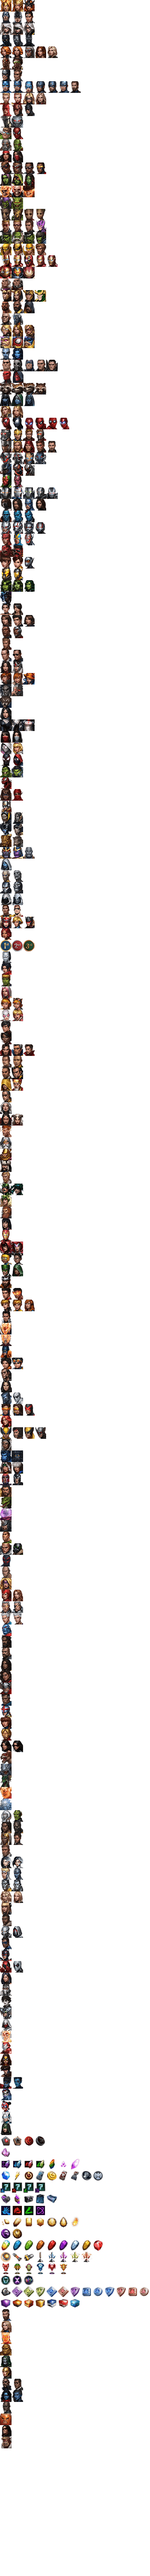
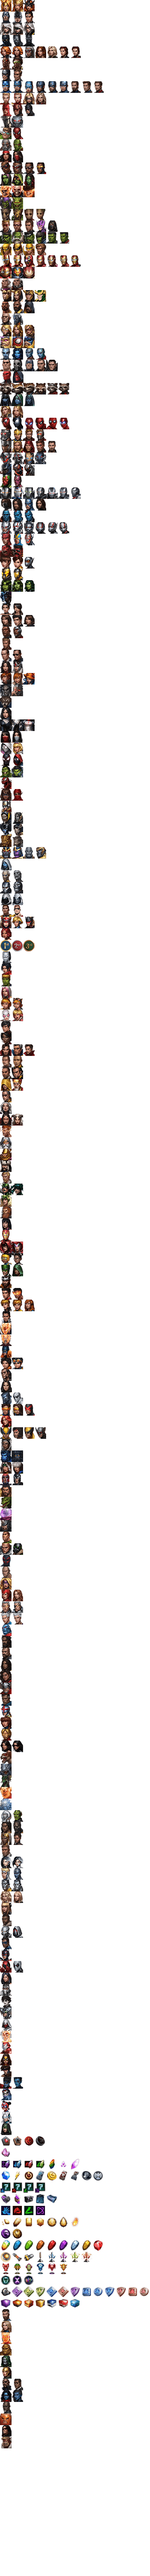
v500 flairs

diff --git a/j_flair.js b/j_flair.js
@@ -73,6 +73,8 @@ flair.names = {
 "Antman01 uniform ant1" : "Ant-Man [Marvel's Ant-Man] #Super Hero# #Hero# #Speed# #Male# #Human# #MCU# #Agility# #Potential# #Tier3#",
 "Antman02 uniform ant2" : "Ant-Man [Captain America: Civil War] #Super Hero# #Hero# #Speed# #Male# #Human# #MCU# #Agility# #Potential# #Tier3#",
 "Antman03 uniform ant3" : "Ant-Man [Marvel's Ant-Man and the Wasp] #Super Hero# #Hero# #Speed# #Male# #Human# #MCU# #Agility# #Potential# #Tier3#",
+"Antman04 uniform ant4" : "Ant-Man [Marvel's Avengers: Endgame] #Super Hero# #Hero# #Speed# #Male# #Human# #MCU# #Agility# #Potential# #Tier3# #New#",
+"Antman05 uniform ant5" : "Ant-Man [Team Suit] #Super Hero# #Hero# #Speed# #Male# #Human# #MCU# #Agility# #Potential# #Tier3# #New#",
 "Apocalypse00 character apocalypse" : "Apocalypse [Age of Apocalypse] #Super Villain# #Villain# #Combat# #Male# #Mutant# #Durability# #Fast Movement# #Pure Evil#",
 "Arachknight00 character arachknight" : "Arachknight [Infinity Warps] #Super Hero# #Hero# #Speed# #Male# #Human# #Leadership# #Weapons Master# #Spider-Sense# #Potential#",
 "BaronMordo00 character mordo" : "Baron Mordo [Classic] #Super Villain# #Villain# #Blast# #Male# #Human# #Pure Evil# #Magic#",
@@ -95,6 +97,8 @@ flair.names = {
 "BlackWidow02 uniform widow2" : "Black Widow [Secret Wars: 2099] #Super Hero# #Hero# #Speed# #Female# #Human# #Avengers# #Agent# #Agility# #Potential#",
 "BlackWidow03 uniform widow3" : "Black Widow [Captain America: Civil War] #Super Hero# #Hero# #Speed# #Female# #Human# #MCU# #Avengers# #Agent# #Agility# #Potential#",
 "BlackWidow04 uniform widow4" : "Black Widow [Marvel's Avengers: Infinity War] #Super Hero# #Hero# #Speed# #Female# #Human# #MCU# #Avengers# #Agent# #Agility# #Potential#",
+"BlackWidow05 uniform widow5" : "Black Widow [Marvel's Avengers: Endgame] #Super Hero# #Hero# #Speed# #Female# #Human# #MCU# #Avengers# #Agent# #Agility# #Potential# #New#",
+"BlackWidow06 uniform widow6" : "Black Widow [Team Suit] #Super Hero# #Hero# #Speed# #Female# #Human# #MCU# #Avengers# #Agent# #Agility# #Potential# #New#",
 "Blade00 character blade" : "Blade [Modern] #Super Hero# #Hero# #Combat# #Male# #Human# #Weapons Master# #Healing#",
 "Blade01 uniform blade1" : "Blade [70's Classic] #Super Hero# #Hero# #Combat# #Male# #Human# #Weapons Master# #Healing#",
 "BlueMarvel00 character bluemarvel" : "Blue Marvel [Ultimates] #Super Hero# #Hero# #Universal# #Male# #Human# #Energy Projection# #Leadership#",
@@ -109,6 +113,8 @@ flair.names = {
 "CaptainAmerica04 uniform cap4" : "Captain America [Captain America: Civil War] #Super Hero# #Hero# #Combat# #Male# #Human# #MCU# #Avengers# #Command# #Leadership# #Potential# #Tier3#",
 "CaptainAmerica05 uniform cap5" : "Captain America [Marvel NOW!] #Super Hero# #Hero# #Combat# #Male# #Human# #Command# #Leadership# #Potential# #Tier3#",
 "CaptainAmerica06 uniform cap6" : "Captain America [Marvel's Avengers: Infinity War] #Super Hero# #Hero# #Combat# #Male# #Human# #MCU# #Avengers# #Command# #Leadership# #Potential# #Tier3#",
+"CaptainAmerica07 uniform cap7" : "Captain America [Marvel's Avengers: Endgame] #Super Hero# #Hero# #Combat# #Male# #Human# #MCU# #Avengers# #Command# #Leadership# #Potential# #Tier3# #New#",
+"CaptainAmerica08 uniform cap8" : "Captain America [Team Suit] #Super Hero# #Hero# #Combat# #Male# #Human# #MCU# #Avengers# #Command# #Leadership# #Potential# #Tier3# #New#",
 "CaptainAmericaSharonRogers00 character sharonrogers" : "Captain America (Sharon Rogers) [Captain America 75th Anniversary] #Super Hero# #Hero# #Blast# #Female# #Human# #Original# #Energy Projection# #Leadership# #Potential# #Tier3#",
 "CaptainAmericaSharonRogers01 uniform sharonrogers1" : "Captain America (Sharon Rogers) [Starlight Armor] #Super Hero# #Hero# #Blast# #Female# #Human# #Original# #Energy Projection# #Leadership# #Potential# #Tier3#",
 "CaptainAmericaSharonRogers02 uniform sharonrogers2" : "Captain America (Sharon Rogers) [Dark Star Armor] #Super Hero# #Hero# #Blast# #Female# #Human# #Original# #Energy Projection# #Leadership# #Potential# #Tier3#",
@@ -138,7 +144,7 @@ flair.names = {
 "Daredevil01 uniform devil1" : "Daredevil [Devil of Hell's Kitchen] #Super Hero# #Hero# #Speed# #Male# #Human# #MCU# #Defenders# #Leadership# #Heightened Senses# #Agility#",
 "Daredevil02 uniform devil2" : "Daredevil [All-New, All-Different] #Super Hero# #Hero# #Speed# #Male# #Human# #Defenders# #Leadership# #Heightened Senses# #Agility#",
 "Deadpool00 character deadpool" : "Deadpool [Modern] #Super Hero# #Hero# #Speed# #Male# #Mutant# #Healing# #Weapons Master# #Potential# #Tier3#",
-"Deadpool01 uniform deadpool1" : "Deadpool [X-Force] #Super Hero# #Hero# #Speed# #Male# #Mutant# #X-Force# #Healing# #Weapons Master# #Potential# #Tier3# #New#",
+"Deadpool01 uniform deadpool1" : "Deadpool [X-Force] #Super Hero# #Hero# #Speed# #Male# #Mutant# #X-Force# #Healing# #Weapons Master# #Potential# #Tier3#",
 "Deathlok00 character deathlok" : "Deathlok [Marvel's Agents of S.H.I.E.L.D.] #Super Hero# #Hero# #Combat# #Male# #Human# #MCU# #Shield# #Agent# #Machine#",
 "Deathlok01 uniform deathlok1" : "Deathlok [Modern] #Super Hero# #Hero# #Blast# #Male# #Human# #Shield# #Agent# #Machine#",
 "Destroyer00 character destroyer" : "Destroyer [Classic] #Neutral# #Universal# #Genderless# #Creature# #Asgard# #Flame#",
@@ -199,6 +205,7 @@ flair.names = {
 "Hawkeye01 uniform hawkeye1" : "Hawkeye [Avengers: Age of Ultron] #Super Hero# #Hero# #Speed# #Male# #Human# #MCU# #Avengers# #Agent# #Weapons Master#",
 "Hawkeye02 uniform hawkeye2" : "Hawkeye [Captain America: Civil War] #Super Hero# #Hero# #Speed# #Male# #Human# #MCU# #Avengers# #Agent# #Weapons Master#",
 "Hawkeye03 uniform hawkeye3" : "Hawkeye [Classic] #Super Hero# #Hero# #Speed# #Male# #Human# #Avengers# #Agent# #Weapons Master#",
+"Hawkeye04 uniform hawkeye4" : "Ronin [Marvel's Avengers: Endgame] #Super Hero# #Hero# #Speed# #Male# #Human# #MCU# #Avengers# #Agent# #Weapons Master# #Potential# #New#",
 "HawkeyeKateBishop00 character kate" : "Hawkeye (Kate Bishop) [Marvel NOW!] #Super Hero# #Hero# #Speed# #Female# #Human# #Agent# #Agility#",
 "Heimdall00 character heimdall" : "Heimdall [Marvel's Thor: Ragnarok] #Super Hero# #Hero# #Universal# #Male# #Alien# #MCU# #Asgard# #Strong#",
 "Hela00 character hela" : "Hela [Modern] #Super Villain# #Villain# #Universal# #Female# #Alien# #Asgard# #Pure Evil# #Command#",
@@ -206,10 +213,12 @@ flair.names = {
 "Hellcat00 character hellcat" : "Hellcat [All-New, All-Different] #Super Hero# #Hero# #Speed# #Female# #Human# #Defenders# #Agility#",
 "Hellstorm00 character daimon" : "Hellstorm [Modern] #Super Hero# #Hero# #Universal# #Male# #Human# #Flame# #Magic#",
 "Hogun00 character hogun" : "Hogun [Modern] #Super Hero# #Hero# #Combat# #Male# #Alien# #Asgard# #Strong#",
-"Hulk00 character hulk" : "Hulk [The Avengers] #Super Hero# #Hero# #Combat# #Male# #Human# #Avengers# #Durability# #Strong#",
-"Hulk01 uniform hulk1" : "Hulk [Secret Wars: Future Imperfect] #Super Hero# #Hero# #Combat# #Male# #Human# #Durability# #Strong#",
-"Hulk02 uniform hulk2" : "Hulk [World War Hulk] #Super Hero# #Hero# #Combat# #Male# #Human# #Durability# #Strong#",
-"Hulk03 uniform hulk3" : "Hulk [Marvel's Thor: Ragnarok] #Super Hero# #Hero# #Combat# #Male# #Human# #MCU# #Avengers# #Durability# #Strong#",
+"Hulk00 character hulk" : "Hulk [The Avengers] #Super Hero# #Hero# #Combat# #Male# #Human# #Avengers# #Durability# #Strong# #Potential#",
+"Hulk01 uniform hulk1" : "Hulk [Secret Wars: Future Imperfect] #Super Hero# #Hero# #Combat# #Male# #Human# #Durability# #Strong# #Potential#",
+"Hulk02 uniform hulk2" : "Hulk [World War Hulk] #Super Hero# #Hero# #Combat# #Male# #Human# #Durability# #Strong# #Potential#",
+"Hulk03 uniform hulk3" : "Hulk [Marvel's Thor: Ragnarok] #Super Hero# #Hero# #Combat# #Male# #Human# #MCU# #Avengers# #Durability# #Strong# #Potential#",
+"Hulk04 uniform hulk4" : "Hulk [Marvel's Avengers: Endgame] #Super Hero# #Hero# #Combat# #Male# #Human# #MCU# #Avengers# #Durability# #Strong# #Potential# #New#",
+"Hulk05 uniform hulk5" : "Hulk [Team Suit] #Super Hero# #Hero# #Combat# #Male# #Human# #MCU# #Avengers# #Durability# #Strong# #Potential# #New#",
 "HulkAmadeusCho00 character cho" : "Hulk (Amadeus Cho) [Totally Awesome Hulk] #Super Hero# #Hero# #Combat# #Male# #Human# #Durability# #Strong#",
 "HulkAmadeusCho01 uniform cho1" : "Hulk (Amadeus Cho) [Monsters Unleashed! (MFF Variant)] #Super Hero# #Hero# #Combat# #Male# #Human# #Durability# #Strong#",
 "Hulkbuster00 character hb" : "Hulkbuster (Iron Mark Mark 44) [Avengers: Age of Ultron] #Super Hero# #Hero# #Combat# #Male# #Creature# #MCU# #Avengers# #Machine# #Strong#",
@@ -233,10 +242,12 @@ flair.names = {
 "IronMan02 uniform im2" : "Iron Man [Secret Wars: 2099] #Super Hero# #Hero# #Blast# #Male# #Human# #Energy Projection# #Machine# #Potential# #Tier3#",
 "IronMan03 uniform im3" : "Iron Man [Captain America: Civil War] #Super Hero# #Hero# #Blast# #Male# #Human# #MCU# #Avengers# #Energy Projection# #Machine# #Potential# #Tier3#",
 "IronMan04 uniform im4" : "Iron Man [Marvel's Avengers: Infinity War] #Super Hero# #Hero# #Blast# #Male# #Human# #MCU# #Avengers# #Energy Projection# #Machine# #Potential# #Tier3#",
+"IronMan05 uniform im5" : "Iron Man [Marvel's Avengers: Endgame] #Super Hero# #Hero# #Blast# #Male# #Human# #MCU# #Avengers# #Energy Projection# #Machine# #Potential# #Tier3# #New#",
+"IronMan06 uniform im6" : "Iron Man [Team Suit] #Super Hero# #Hero# #Blast# #Male# #Human# #MCU# #Avengers# #Energy Projection# #Machine# #Potential# #Tier3# #New#",
 "JeanGrey00 character jean" : "Jean Grey [Phoenix] #Super Hero# #Hero# #Blast# #Female# #Mutant# #X-Men# #Phoenix Force# #Mind# #Mind Resist#",
 "JessicaJones00 character jessica" : "Jessica Jones [Modern] #Super Hero# #Hero# #Combat# #Female# #Human# #MCU# #Defenders# #Durability# #Strong#",
 "Jocasta00 character jocasta" : "Jocasta [Jocasta] #Super Hero# #Hero# #Female# #Creature# #NPC#",
-"Juggernaut00 character juggernaut" : "Juggernaut [Brotherhood of Mutants] #Super Villain# #Villain# #Combat# #Male# #Mutant# #Brotherhood# #Strong# #Durability# #Pure Evil# #Potential# #New#",
+"Juggernaut00 character juggernaut" : "Juggernaut [Brotherhood of Mutants] #Super Villain# #Villain# #Combat# #Male# #Mutant# #Brotherhood# #Strong# #Durability# #Pure Evil# #Potential#",
 "Kaecilius00 character kaecilius" : "Kaecilius [Marvel's Doctor Strange] #Super Villain# #Villain# #Blast# #Male# #Human# #MCU# #Agility# #Magic#",
 "Karnak00 character karnak" : "Karnak [War of Kings] #Super Hero# #Hero#  #Speed# #Male# #Inhuman# #Heightened Senses#",
 "Karnak01 uniform karnak1" : "Karnak [All-New, All-Different] #Super Hero# #Hero#  #Speed# #Male# #Inhuman# #Heightened Senses#",
@@ -290,12 +301,14 @@ flair.names = {
 "MsMarvelKamalaKhan00 character kamala" : "Ms. Marvel (Kamala Khan) [All-New, All-Different] #Super Hero# #Hero# #Combat# #Female# #Inhuman# #Healing# #Strong#",
 "MsMarvelKamalaKhan01 uniform kamala1" : "Ms. Marvel (Kamala Khan) [Karachi Costume] #Super Hero# #Hero# #Speed# #Female# #Inhuman# #Healing# #Strong#",
 "Mysterio00 character mysterio" : "Mysterio [Classic] #Super Villain# #Villain# #Blast# #Male# #Human# #Sinister Six# #Mind#",
-"Nebula00 character nebula" : "Nebula [Guardians of the Galaxy] #Super Villain# #Villain# #Combat# #Female# #Alien# #MCU# #Guardians# #Weapons Master# #Shock#",
-"Nebula01 uniform nebula1" : "Nebula [Classic] #Super Villain# #Villain# #Combat# #Female# #Alien# #Weapons Master# #Shock#",
+"Nebula00 character nebula" : "Nebula [Guardians of the Galaxy] #Super Villain# #Villain# #Combat# #Female# #Alien# #MCU# #Guardians# #Weapons Master# #Shock# #Potential#",
+"Nebula01 uniform nebula1" : "Nebula [Classic] #Super Villain# #Villain# #Combat# #Female# #Alien# #Weapons Master# #Shock# #Potential#",
+"Nebula02 uniform nebula2" : "Nebula [Marvel's Avengers: Endgame] #Super Hero# #Hero# #Combat# #Female# #Alien# #Avengers# #-# #Guardians# #Weapons Master# #Shock# #Potential# #New#",
+"Nebula03 uniform nebula3" : "Nebula [Team Suit] #Super Hero# #Hero# #Combat# #Female# #Alien# #Avengers# #-# #Guardians# #Weapons Master# #Shock# #Potential# #New#",
 "NickFury00 character fury" : "Nick Fury [Modern] #Super Hero# #Hero# #Speed# #Male# #Human# #Shield# #Weapons Master# #Leadership# #Agent# #Support#",
 "NickFury01 uniform fury1" : "Nick Fury [Captain America] #Super Hero# #Hero# #Speed# #Male# #Human# #MCU# #Shield# #Weapons Master# #Leadership# #Agent# #Support# #Potential#",
 "Nightcrawler00 character nightcrawler" : "Nightcrawler [Modern] #Super Hero# #Hero# #Speed# #Male# #Mutant# #X-Men# #Leadership# #Agility# #Potential#",
-"Nightcrawler01 uniform nightcrawler1" : "Nightcrawler [X-Force] #Super Hero# #Hero# #Speed# #Male# #Mutant# #X-Force# #Leadership# #Agility# #Potential# #New#",
+"Nightcrawler01 uniform nightcrawler1" : "Nightcrawler [X-Force] #Super Hero# #Hero# #Speed# #Male# #Mutant# #X-Force# #Leadership# #Agility# #Potential#",
 "NovaSamAlexander00 character samalexander" : "Nova (Sam Alexander) [All-New, All-Different] #Super Hero# #Hero# #Universal# #Male# #Human# #Energy Projection# #Fast Movement#",
 "Odin00 character odin" : "Odin [Modern] #Super Hero# #Hero# #Universal# #Male# #Alien# #Asgard# #Energy Projection# #Command# #Support#",
 "PhilCoulson00 character coulson" : "Phil Coulson [Marvel's Agents of S.H.I.E.L.D.] #Super Hero# #Hero# #Blast# #Male# #Human# #MCU# #Shield# #Agent# #Command# #Support#",
@@ -320,12 +333,14 @@ flair.names = {
 "RocketRaccoon01 uniform rocket1" : "Rocket Raccoon [All-New, All-Different] #Super Hero# #Hero# #Blast# #Male# #Alien# #Guardians# #Weapons Master# #Potential#",
 "RocketRaccoon02 uniform rocket2" : "Rocket Raccoon [Guardians of the Galaxy 2] #Super Hero# #Hero# #Blast# #Male# #Alien# #MCU# #Guardians# #Weapons Master# #Potential#",
 "RocketRaccoon03 uniform rocket3" : "Rocket Raccoon [Marvel's Avengers: Infinity War] #Super Hero# #Hero# #Blast# #Male# #Alien# #MCU# #Avengers# #-# #Guardians# #Weapons Master# #Potential#",
+"RocketRaccoon04 uniform rocket4" : "Rocket Raccoon [Marvel's Avengers: Endgame] #Super Hero# #Hero# #Blast# #Male# #Alien# #MCU# #Avengers# #-# #Guardians# #Weapons Master# #Potential# #New#",
+"RocketRaccoon05 uniform rocket5" : "Rocket Raccoon [Team Suit] #Super Hero# #Hero# #Blast# #Male# #Alien# #MCU# #Avengers# #-# #Guardians# #Weapons Master# #Potential# #New#",
 "Rogue00 character rogue" : "Rogue [Classic] #Super Hero# #Hero# #Speed# #Female# #Mutant# #X-Men# #Fast Movement# #Healing#",
 "Rogue01 uniform rogue1" : "Rogue [Age of Apocalypse] #Super Hero# #Hero# #Speed# #Female# #Mutant# #X-Men# #Fast Movement# #Healing#",
 "Ronan00 character ronan" : "Ronan [Guardians of the Galaxy] #Super Villain# #Villain# #Universal# #Male# #Alien# #MCU# #Guardians# #Command# #Mind Resist# #Support#",
 "Ronan01 uniform ronan1" : "Ronan [Annihilation] #Super Villain# #Villain# #Universal# #Male# #Alien# #Guardians# #Command# #Mind Resist# #Support#",
 "Ronan02 uniform ronan2" : "Ronan [Captain Marvel] #Super Villain# #Villain# #Universal# #Male# #Alien# #MCU# #Guardians# #Command# #Mind Resist# #Support# #Potential#",
-"Sabretooth00 character sabretooth" : "Sabretooth [Brotherhood of Mutants] #Super Villain# #Villain# #Combat# #Male# #Mutant# #Brotherhood# #Pure Evil# #Agility# #Potential# #New#",
+"Sabretooth00 character sabretooth" : "Sabretooth [Brotherhood of Mutants] #Super Villain# #Villain# #Combat# #Male# #Mutant# #Brotherhood# #Pure Evil# #Agility# #Potential#",
 "Sandman00 character sandman" : "Sandman [Classic] #Super Villain# #Villain# #Combat# #Male# #Human# #Sinister Six# #Durability#",
 "Satana00 character satana" : "Satana [Modern] #Super Hero# #Hero# #Universal# #Female# #Human# #Flame# #Magic#",
 "Satana01 uniform satana1" : "Satana [Marvel Legacy] #Super Hero# #Hero# #Universal# #Female# #Human# #Flame# #Magic#",
@@ -370,9 +385,10 @@ flair.names = {
 "Supergiant00 character supergiant" : "Supergiant [Infinity] #Super Villain# #Villain# #Universal# #Female# #Alien# #Black Order# #Mind Resist# #Mind#",
 "Surtur00 character surtur" : "Surtur [Surtur] #Super Villain# #Villain# #Male# #Alien# #Asgard# #NPC#",
 "Talos00 character talos" : "Talos [Captain Marvel] #Super Villain# #Villain# #Male# #Alien# #MCU# #Skrull# #NPC#",
-"Thanos00 character thanos" : "Thanos [Infinity] #Super Villain# #Villain# #Universal# #Male# #Alien# #Pure Evil# #Durability# #Strong# #Potential#",
-"Thanos01 uniform thanos1" : "Thanos [Secret Wars: Infinity] #Super Villain# #Villain# #Universal# #Male# #Alien# #Pure Evil# #Durability# #Strong# #Potential#",
-"Thanos02 uniform thanos2" : "Thanos [Marvel's Avengers: Infinity War] #Super Villain# #Villain# #Universal# #Male# #Alien# #MCU# #Pure Evil# #Durability# #Strong# #Potential#",
+"Thanos00 character thanos" : "Thanos [Infinity] #Super Villain# #Villain# #Universal# #Male# #Alien# #Pure Evil# #Durability# #Strong# #Potential# #Tier3#",
+"Thanos01 uniform thanos1" : "Thanos [Secret Wars: Infinity] #Super Villain# #Villain# #Universal# #Male# #Alien# #Pure Evil# #Durability# #Strong# #Potential# #Tier3#",
+"Thanos02 uniform thanos2" : "Thanos [Marvel's Avengers: Infinity War] #Super Villain# #Villain# #Universal# #Male# #Alien# #MCU# #Pure Evil# #Durability# #Strong# #Potential# #Tier3#",
+"Thanos03 uniform thanos3" : "Thanos [Marvel's Avengers: Endgame] #Super Villain# #Villain# #Universal# #Male# #Alien# #MCU# #Pure Evil# #Durability# #Strong# #Potential# #Tier3# #New#",
 "Thing00 character thing" : "Thing [Modern] #Super Hero# #Hero# #Combat# #Male# #Human# #Fantastic Four# #Durability# #Strong# #Support# #Potential#",
 "Thor00 character thor" : "Thor [The Avengers] #Super Hero# #Hero# #Universal# #Male# #Alien# #MCU# #Avengers# #-# #Asgard# #Leadership# #Shock# #Potential# #Tier3#",
 "Thor01 uniform thor1" : "Thor [Avengers: Age of Ultron] #Super Hero# #Hero# #Universal# #Male# #Alien# #MCU# #Avengers# #-# #Asgard# #Leadership# #Shock# #Potential# #Tier3#",
@@ -402,7 +418,9 @@ flair.names = {
 "WarMachine02 uniform wm2" : "War Machine [Avengers: The Initiative] #Super Hero# #Hero# #Blast# #Male# #Human# #Avengers# #Leadership# #Machine# #Potential#",
 "WarMachine03 uniform wm3" : "War Machine [Captain America: Civil War] #Super Hero# #Hero# #Blast# #Male# #Human# #MCU# #Avengers# #Leadership# #Machine# #Potential#",
 "WarMachine04 uniform wm4" : "War Machine [Marvel's Avengers: Infinity War] #Super Hero# #Hero# #Blast# #Male# #Human# #MCU# #Avengers# #Leadership# #Machine# #Potential#",
-"Warpath00 character warpath" : "Warpath [X-Force] #Super Hero# #Hero# #Combat# #Male# #Mutant# #X-Force# #Leadership# #Strong# #Potential# #New#",
+"WarMachine05 uniform wm5" : "War Machine [Marvel's Avengers: Endgame] #Super Hero# #Hero# #Blast# #Male# #Human# #MCU# #Avengers# #Leadership# #Machine# #Potential# #New#",
+"WarMachine06 uniform wm6" : "War Machine [Team Suit] #Super Hero# #Hero# #Blast# #Male# #Human# #MCU# #Avengers# #Leadership# #Machine# #Potential# #New#",
+"Warpath00 character warpath" : "Warpath [X-Force] #Super Hero# #Hero# #Combat# #Male# #Mutant# #X-Force# #Leadership# #Strong# #Potential#",
 "Warwolf00 character warwolf" : "Warwolf [The Howling Commandos of S.H.I.E.L.D.] #Super Hero# #Hero# #Combat# #Male# #Human# #Shield# #Agent# #Healing# #Support#",
 "Wasp00 character wasp" : "Wasp [Modern] #Super Hero# #Hero# #Blast# #Female# #Human# #Fast Movement# #Support# #Potential#",
 "Wasp01 uniform wasp1" : "Wasp [All-New, All-Different] #Super Hero# #Hero# #Blast# #Female# #Human# #Fast Movement# #Support# #Potential#",
@@ -420,7 +438,7 @@ flair.names = {
 "Wolverine00 character wolverine" : "Wolverine [Classic] #Super Hero# #Hero# #Combat# #Male# #Mutant# #X-Men# #Healing# #Weapons Master#",
 "Wolverine01 uniform wolverine1" : "Wolverine [Age of Apocalypse] #Super Hero# #Hero# #Combat# #Male# #Mutant# #X-Men# #Healing# #Weapons Master#",
 "Wolverine02 uniform wolverine2" : "Wolverine [All-New Marvel NOW!] #Super Hero# #Hero# #Combat# #Male# #Mutant# #X-Men# #Healing# #Weapons Master#",
-"Wolverine03 uniform wolverine3" : "Wolverine [X-Force] #Super Hero# #Hero# #Combat# #Male# #Mutant# #X-Force# #Healing# #Weapons Master# #Potential# #Tier3# #New#",
+"Wolverine03 uniform wolverine3" : "Wolverine [X-Force] #Super Hero# #Hero# #Combat# #Male# #Mutant# #X-Force# #Healing# #Weapons Master# #Potential# #Tier3#",
 "Wong00 character wong" : "Wong [All-New, All-Different] #Super Hero# #Hero# #Speed# #Male# #Human# #Weapons Master#",
 "Wong01 uniform wong1" : "Wong [Marvel's Doctor Strange] #Super Hero# #Hero# #Speed# #Male# #Human# #MCU# #Weapons Master#",
 "X2300 character laura" : "X-23 [Classic] #Super Hero# #Hero# #Speed# #Female# #Mutant# #X-Men# #Healing# #Agility# #Potential#",
@@ -431,6 +449,7 @@ flair.names = {
 "Yondu00 character yondu" : "Yondu [Guardians of the Galaxy] #Super Hero# #Hero# #Speed# #Male# #Alien# #MCU# #Guardians# #Weapons Master# #Command#",
 "Yondu01 uniform yondu1" : "Yondu [All-New, All-Different] #Super Hero# #Hero# #Speed# #Male# #Alien# #Weapons Master# #Command#",
 "Yondu02 uniform yondu2" : "Yondu [Guardians of the Galaxy 2] #Super Hero# #Hero# #Speed# #Male# #Alien# #MCU# #Guardians# #Weapons Master# #Command#",
+
 
 
 

diff --git a/c_flair.css b/c_flair.css
@@ -49,6 +49,12 @@ e.flair-angela {
 .flair-widow4 {
 	background-position: -120px -120px
 }
+.flair-widow5 {
+	background-position: -150px -120px
+}
+.flair-widow6 {
+	background-position: -180px -120px
+}
 .flair-blade {
 	background-position: 0 -150px
 }
@@ -81,6 +87,12 @@ e.flair-angela {
 }
 .flair-cap6 {
 	background-position: -180px -210px
+}
+.flair-cap7 {
+	background-position: -210px -210px
+}
+.flair-cap8 {
+	background-position: -240px -210px
 }
 .flair-danvers {
 	background-position: 0 -240px
@@ -187,6 +199,9 @@ e.flair-angela {
 .flair-hawkeye3 {
 	background-position: -90px -570px
 }
+.flair-hawkeye4 {
+	background-position: -120px -570px
+}
 .flair-hulk {
 	background-position: -0px -600px
 }
@@ -198,6 +213,12 @@ e.flair-angela {
 }
 .flair-hulk3 {
 	background-position: -90px -600px
+}
+.flair-hulk4 {
+	background-position: -120px -600px
+}
+.flair-hulk5 {
+	background-position: -150px -600px
 }
 .flair-fist {
 	background-position: 0 -630px
@@ -225,6 +246,12 @@ e.flair-angela {
 }
 .flair-im4 {
 	background-position: -120px -660px
+}
+.flair-im5 {
+	background-position: -150px -660px
+}
+.flair-im6 {
+	background-position: -180px -660px
 }
 .flair-hb {
 	background-position: 0 -690px
@@ -292,6 +319,12 @@ e.flair-angela {
 .flair-nebula1 {
 	background-position: -30px -900px
 }
+.flair-nebula2 {
+	background-position: -60px -900px
+}
+.flair-nebula3 {
+	background-position: -90px -900px
+}
 .flair-punisher {
 	background-position: 0 -930px
 }
@@ -324,6 +357,12 @@ e.flair-angela {
 }
 .flair-rocket3 {
 	background-position: -90px -990px
+}
+.flair-rocket4 {
+	background-position: -120px -990px
+}
+.flair-rocket5 {
+	background-position: -150px -990px
 }
 .flair-ronan {
 	background-position: 0 -1020px
@@ -427,6 +466,12 @@ e.flair-angela {
 .flair-wm4 {
 	background-position: -120px -1260px
 }
+.flair-wm5 {
+	background-position: -150px -1260px
+}
+.flair-wm6 {
+	background-position: -180px -1260px
+}
 .flair-bucky {
 	background-position: 0 -1290px
 }
@@ -459,6 +504,12 @@ e.flair-angela {
 }
 .flair-ant3 {
 	background-position: -90px -1350px
+}
+.flair-ant4 {
+	background-position: -120px -1350px
+}
+.flair-ant5 {
+	background-position: -150px -1350px
 }
 .flair-giant {
 	background-position: 0 -1380px
@@ -621,6 +672,9 @@ e.flair-angela {
 }
 .flair-thanos2 {
 	background-position: -60px -2190px
+}
+.flair-thanos3 {
+	background-position: -90px -2190px
 }
 .flair-supergiant {
 	background-position: 0 -2220px
@@ -1162,6 +1216,8 @@ e.flair-angela {
 .flair1-ant1 {background-position:-900px -100px}
 .flair1-ant2 {background-position:-900px -200px}
 .flair1-ant3 {background-position:-900px -300px}
+.flair1-ant4 {background-position:-900px -400px}
+.flair1-ant5 {background-position:-900px -500px}
 .flair1-apocalypse {background-position:-1000px 0px}
 .flair1-arachknight {background-position:-1100px 0px}
 .flair1-mordo {background-position:-1200px 0px}
@@ -1184,6 +1240,8 @@ e.flair-angela {
 .flair1-widow2 {background-position:-1800px -200px}
 .flair1-widow3 {background-position:-1800px -300px}
 .flair1-widow4 {background-position:-1800px -400px}
+.flair1-widow5 {background-position:-1800px -500px}
+.flair1-widow6 {background-position:-1800px -600px}
 .flair1-blade {background-position:-1900px 0px}
 .flair1-blade1 {background-position:-1900px -100px}
 .flair1-bluemarvel {background-position:-2000px 0px}
@@ -1198,6 +1256,8 @@ e.flair-angela {
 .flair1-cap4 {background-position:-2300px -400px}
 .flair1-cap5 {background-position:-2300px -500px}
 .flair1-cap6 {background-position:-2300px -600px}
+.flair1-cap7 {background-position:-2300px -700px}
+.flair1-cap8 {background-position:-2300px -800px}
 .flair1-danvers {background-position:-2400px 0px}
 .flair1-danvers1 {background-position:-2400px -100px}
 .flair1-danvers2 {background-position:-2400px -200px}
@@ -1284,6 +1344,7 @@ e.flair-angela {
 .flair1-hawkeye1 {background-position:-6500px -100px}
 .flair1-hawkeye2 {background-position:-6500px -200px}
 .flair1-hawkeye3 {background-position:-6500px -300px}
+.flair1-hawkeye4 {background-position:-6500px -400px}
 .flair1-heimdall {background-position:-6600px 0px}
 .flair1-hela {background-position:-6700px 0px}
 .flair1-hela1 {background-position:-6700px -100px}
@@ -1294,6 +1355,8 @@ e.flair-angela {
 .flair1-hulk1 {background-position:-7100px -100px}
 .flair1-hulk2 {background-position:-7100px -200px}
 .flair1-hulk3 {background-position:-7100px -300px}
+.flair1-hulk4 {background-position:-7100px -400px}
+.flair1-hulk5 {background-position:-7100px -500px}
 .flair1-hb {background-position:-7200px 0px}
 .flair1-hb1 {background-position:-7200px -100px}
 .flair1-hb2 {background-position:-7200px -200px}
@@ -1315,6 +1378,8 @@ e.flair-angela {
 .flair1-im2 {background-position:-8100px -200px}
 .flair1-im3 {background-position:-8100px -300px}
 .flair1-im4 {background-position:-8100px -400px}
+.flair1-im5 {background-position:-8100px -500px}
+.flair1-im6 {background-position:-8100px -600px}
 .flair1-jane {background-position:-8200px 0px}
 .flair1-jean {background-position:-8300px 0px}
 .flair1-jessica {background-position:-8400px 0px}
@@ -1374,6 +1439,8 @@ e.flair-angela {
 .flair1-nadiavan {background-position:-11400px 0px}
 .flair1-nebula {background-position:-11500px 0px}
 .flair1-nebula1 {background-position:-11500px -100px}
+.flair1-nebula2 {background-position:-11500px -200px}
+.flair1-nebula3 {background-position:-11500px -300px}
 .flair1-talos {background-position:-5300px -200px}
 .flair1-mbaku {background-position:-5300px -300px}
 .flair1-nightcrawler {background-position:-11600px 0px}
@@ -1403,6 +1470,8 @@ e.flair-angela {
 .flair1-rocket1 {background-position:-12900px -100px}
 .flair1-rocket2 {background-position:-12900px -200px}
 .flair1-rocket3 {background-position:-12900px -300px}
+.flair1-rocket4 {background-position:-12900px -400px}
+.flair1-rocket5 {background-position:-12900px -500px}
 .flair1-rogue {background-position:-13000px 0px}
 .flair1-rogue1 {background-position:-13000px -100px}
 .flair1-ronan {background-position:-13100px 0px}
@@ -1458,6 +1527,7 @@ e.flair-angela {
 .flair1-thanos {background-position:-15600px 0px}
 .flair1-thanos1 {background-position:-15600px -100px}
 .flair1-thanos2 {background-position:-15600px -200px}
+.flair1-thanos3 {background-position:-15600px -300px}
 .flair1-thing {background-position:-15700px 0px}
 .flair1-thor {background-position:-15800px 0px}
 .flair1-thor1 {background-position:-15800px -100px}
@@ -1486,6 +1556,8 @@ e.flair-angela {
 .flair1-wm2 {background-position:-16900px -200px}
 .flair1-wm3 {background-position:-16900px -300px}
 .flair1-wm4 {background-position:-16900px -400px}
+.flair1-wm5 {background-position:-16900px -500px}
+.flair1-wm6 {background-position:-16900px -600px}
 .flair1-warwolf {background-position:-17000px 0px}
 .flair1-wasp {background-position:-17100px 0px}
 .flair1-wasp1 {background-position:-17100px -100px}
